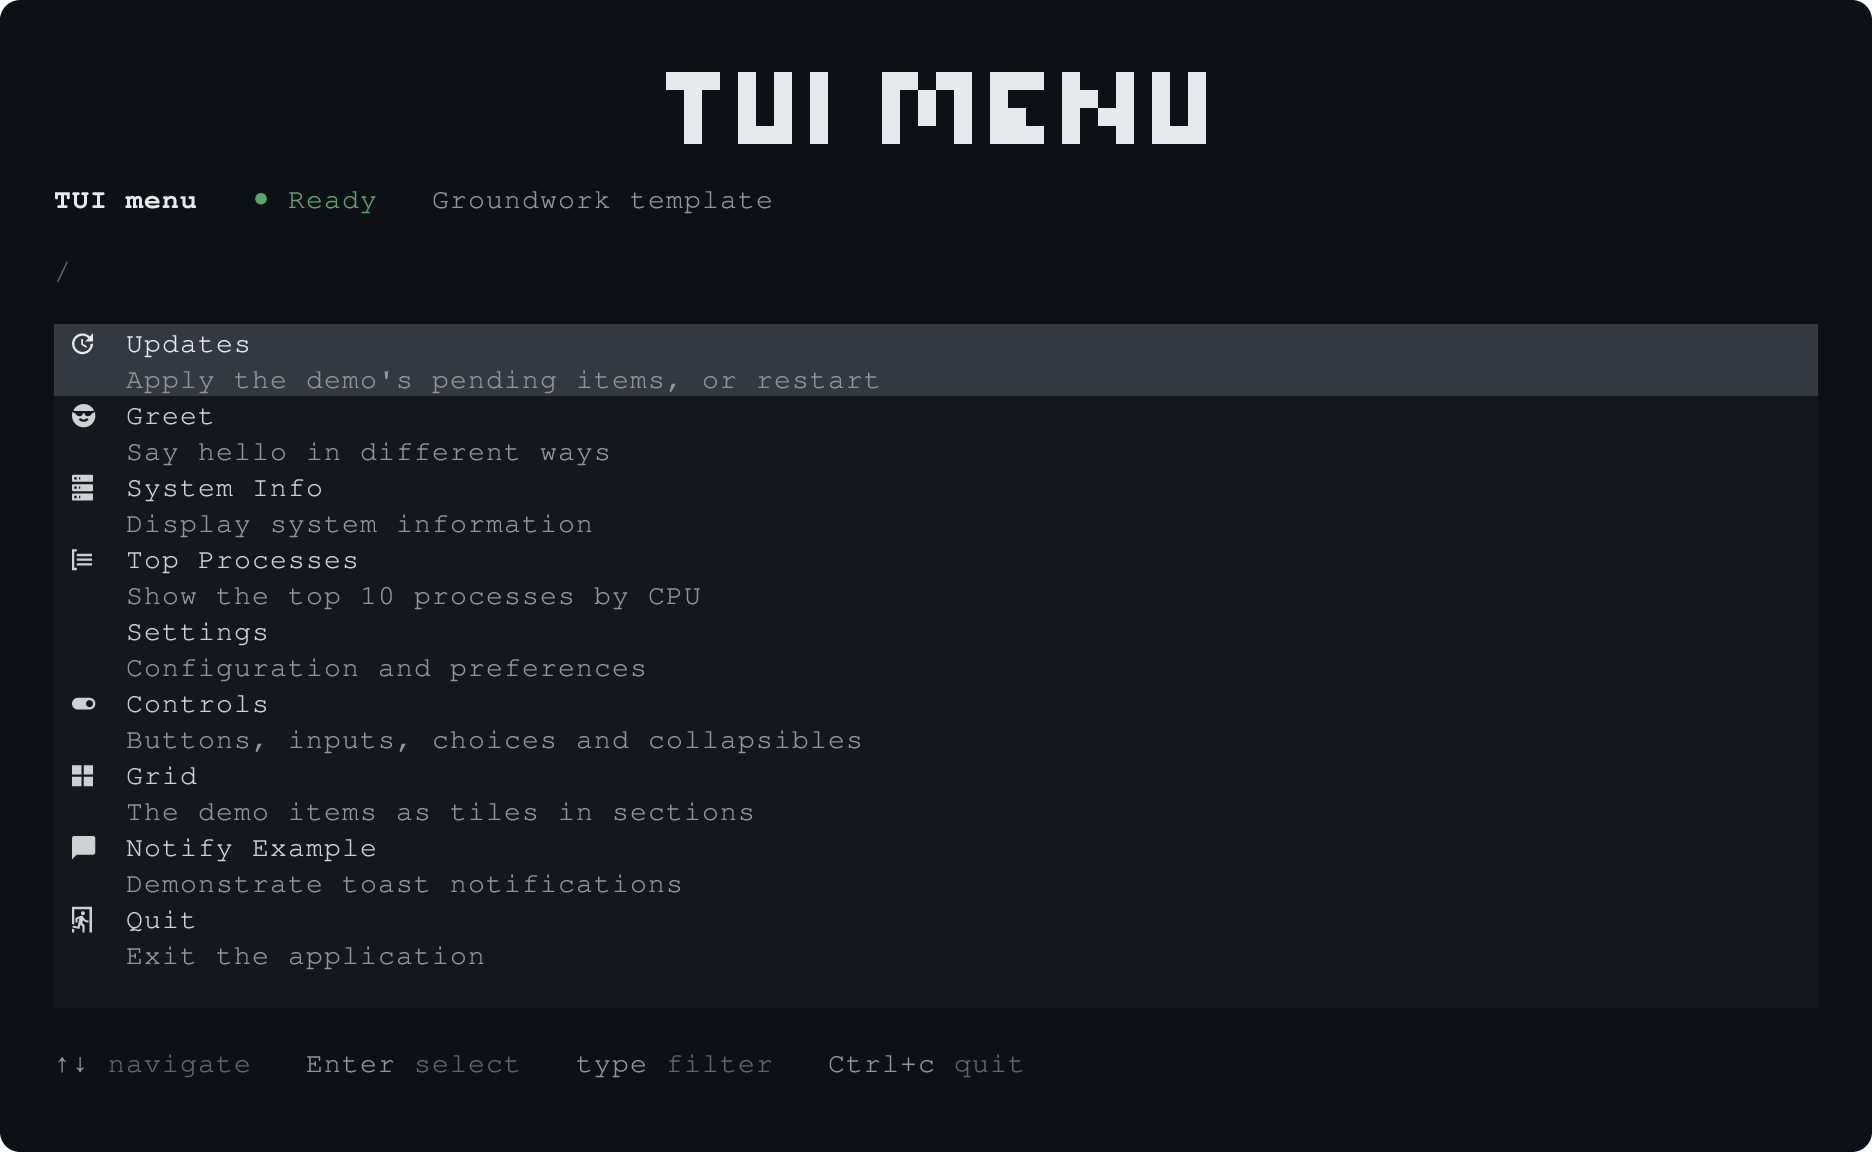
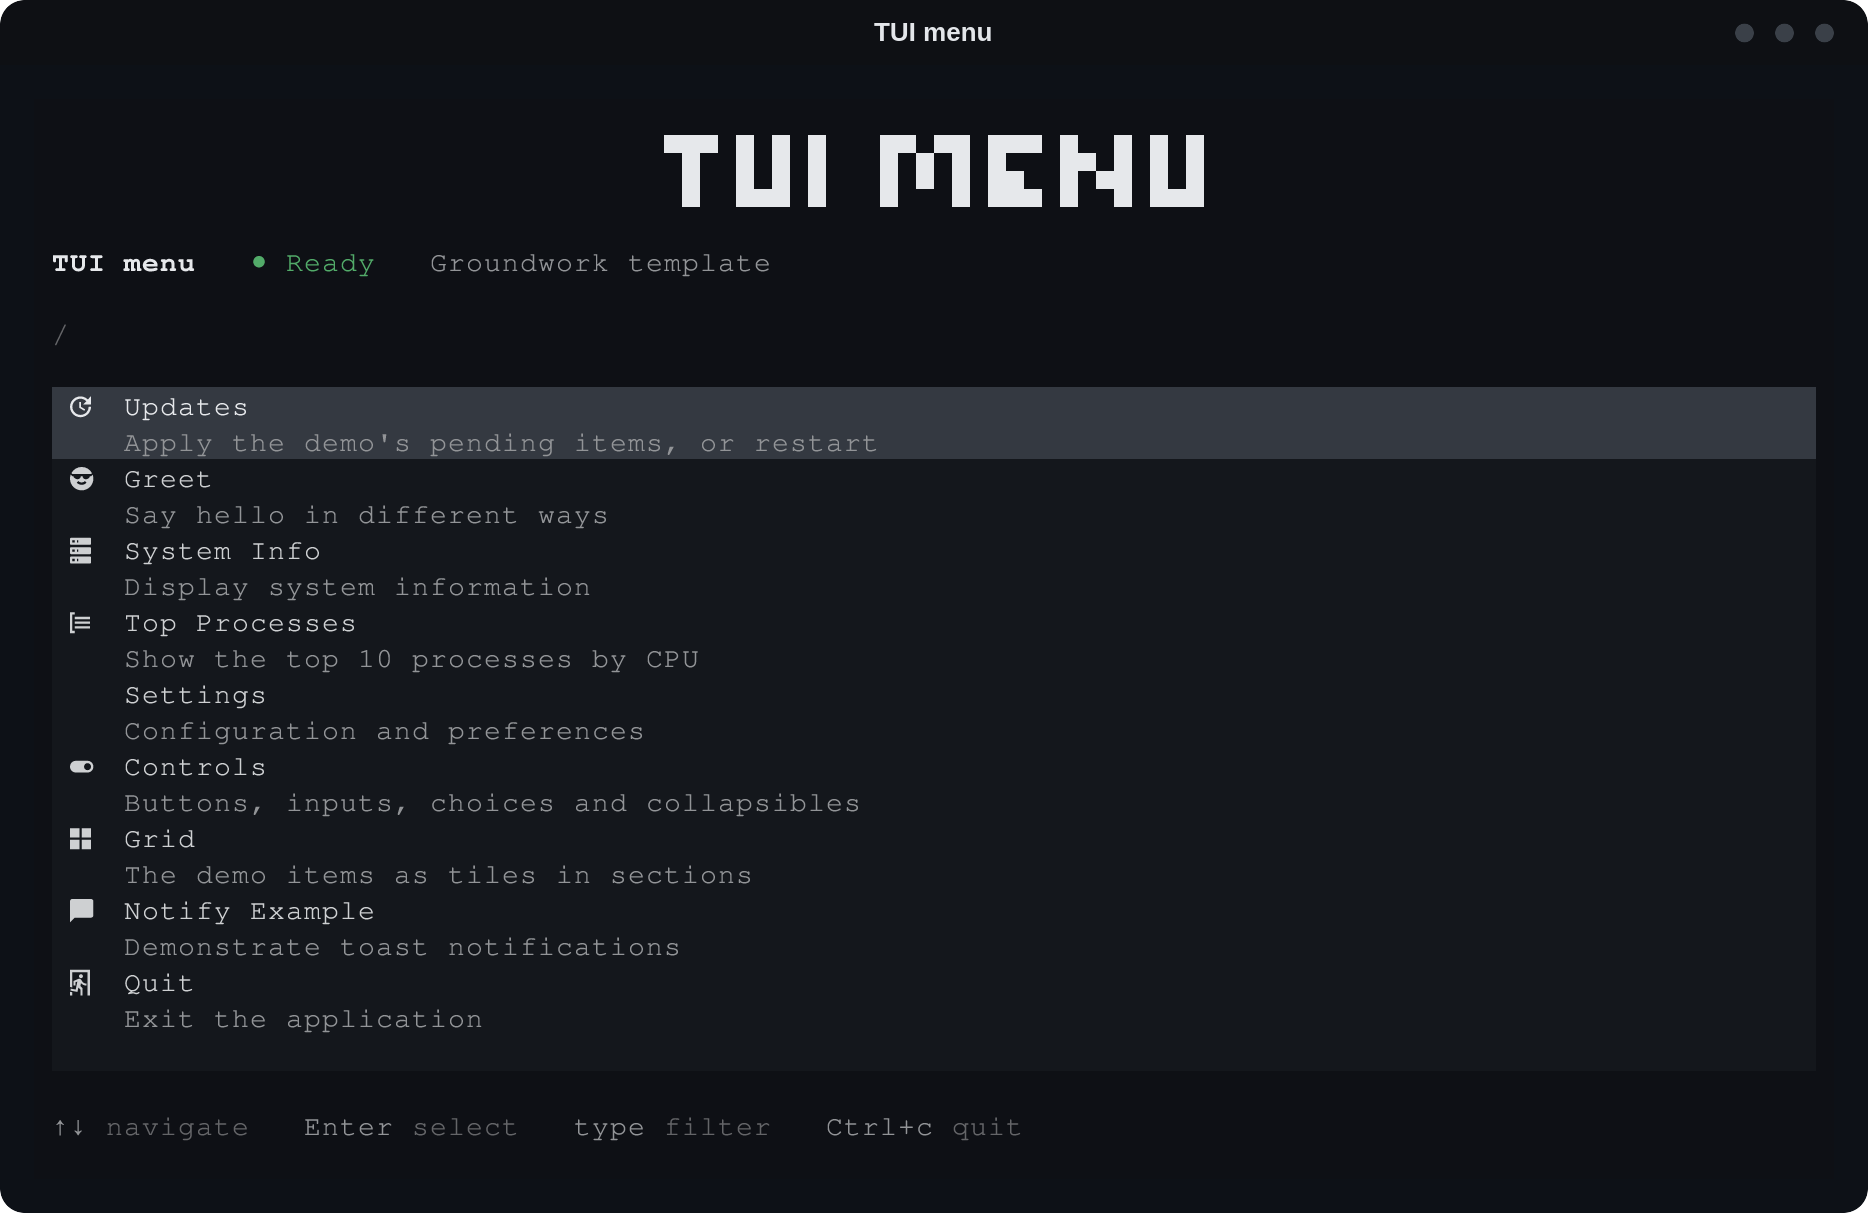
Frame the terminal screenshots too, with a reusable frame script and task

diff --git a/docs/scripts/frame.ts b/docs/scripts/frame.ts
@@ -1,0 +1,120 @@
+/**
+ * Wraps app screenshots for the docs in a window frame: a title bar with the
+ * title and three window controls, rounded corners and a transparent
+ * outside, so desktop and terminal shots read as windows. Run it once on each
+ * raw capture; framing a framed shot adds a second bar.
+ *
+ *   bun scripts/frame.ts <in.png> [out.png] --title Updates [--mode dark|light]
+ *
+ * Needs ImageMagick 7 (`magick`) and fontconfig.
+ */
+import { parseArgs } from "node:util";
+import { $ } from "bun";
+
+const { values, positionals } = parseArgs({
+  allowPositionals: true,
+  options: {
+    title: { type: "string", default: "" },
+    mode: { type: "string", default: "dark" },
+  },
+});
+
+const [input, output = input] = positionals;
+
+if (input === undefined) {
+  console.error("Usage: bun scripts/frame.ts <in.png> [out.png] --title <title> [--mode dark|light]");
+  process.exit(1);
+}
+
+const colors =
+  values.mode === "light"
+    ? { bar: "#e4e8ee", title: "#1f2329", controls: "#b4bac3" }
+    : { bar: "#0e1014", title: "#e3e6ea", controls: "#3a4048" };
+
+const font = (await $`fc-match -f %{file} sans-serif:bold`.text()).trim();
+const [rawWidth, rawHeight] = (await $`magick identify -format "%w %h" ${input}`.text()).split(" ").map(Number);
+
+// A window manager's capture has its own border and rounded corners, with the
+// wallpaper showing in the corners. Trim the border, then paint the corners
+// in the window's own background so nothing shows where the bar joins.
+const shave = 2;
+const width = rawWidth - shave * 2;
+const height = rawHeight - shave * 2;
+const corner = 20;
+const bar = 65;
+const radius = 24;
+const total = height + bar;
+
+const background = (
+  await $`magick ${input} -shave ${`${shave}x${shave}`} +repage -background black -flatten -format "%[pixel:p{${corner + 4},${corner + 4}}]" info:`.text()
+).trim();
+
+const corners = [
+  `rectangle 0,0 ${corner},${corner}`,
+  `rectangle ${width - 1 - corner},0 ${width - 1},${corner}`,
+  `rectangle 0,${height - 1 - corner} ${corner},${height - 1}`,
+  `rectangle ${width - 1 - corner},${height - 1 - corner} ${width - 1},${height - 1}`,
+];
+
+const controls = [44, 84, 124].map((offset) => `circle ${width - offset},${bar / 2} ${width - offset + 9},${bar / 2}`);
+
+// Bun's shell reads parentheses as a subshell, so this one runs directly
+const frame = Bun.spawn(
+  [
+    "magick",
+    "(",
+    "-size",
+    `${width}x${bar}`,
+    `xc:${colors.bar}`,
+    "-font",
+    font,
+    "-pointsize",
+    "26",
+    "-fill",
+    colors.title,
+    "-gravity",
+    "center",
+    "-annotate",
+    "+0+0",
+    values.title,
+    "-gravity",
+    "northwest",
+    "-fill",
+    colors.controls,
+    ...controls.flatMap((draw) => ["-draw", draw]),
+    ")",
+    "(",
+    input,
+    "-shave",
+    `${shave}x${shave}`,
+    "+repage",
+    "-background",
+    background,
+    "-flatten",
+    "-fill",
+    background,
+    ...corners.flatMap((draw) => ["-draw", draw]),
+    ")",
+    "-append",
+    "(",
+    "-size",
+    `${width}x${total}`,
+    "xc:none",
+    "-fill",
+    "white",
+    "-draw",
+    `roundrectangle 0,0 ${width - 1},${total - 1} ${radius},${radius}`,
+    ")",
+    "-alpha",
+    "set",
+    "-compose",
+    "DstIn",
+    "-composite",
+    output,
+  ],
+  { stderr: "inherit" },
+);
+
+if ((await frame.exited) !== 0) process.exit(1);
+
+console.log(`Framed ${input} as ${output}`);

diff --git a/AGENTS.md b/AGENTS.md
@@ -63,6 +63,13 @@ go-ahead needed. Before the session ends, once `mise run check` passes:
   `pitchfork proxy doctor`, then `pitchfork proxy setup -y`, to restore the 443
   redirect instead.
 
+## Screenshots
+
+- Desktop and terminal screenshots in `docs/public/screenshots/` sit in a
+  window frame. Frame each raw capture once with
+  `mise run frame -- <in.png> [out.png] --title <title> [--mode light]`
+  (paths relative to `docs/`); framing a framed shot adds a second bar.
+
 ## Tokens and themes
 
 - Themes are data in `packages/tokens/themes/*.json`, checked against the
